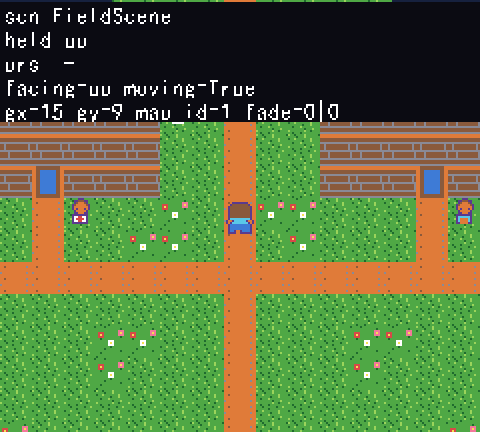
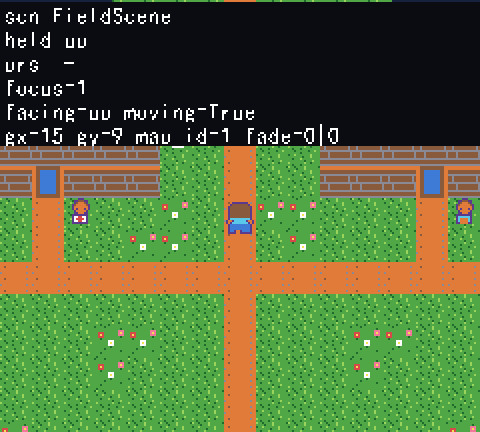
feat(debug): 日志与覆盖层增加窗口焦点状态 focus=
focus.is_focused() 比较 GetForegroundWindow 与自身窗口句柄，
用来确认「按键没反应」是否由窗口失去前台焦点引起。

Changed region(s): [[0.0, 0.1806, 1.0, 0.3611], [0.4375, 0.1806, 0.4688, 0.2106]]

diff --git a/src/core/focus.py b/src/core/focus.py
@@ -22,6 +22,51 @@ WINDOW_TITLE = "精灵对战"
 _SW_RESTORE = 9
 
 
+_hwnd_cache: int = 0
+
+
+def window_handle(title: str = WINDOW_TITLE) -> int:
+    """返回本进程的窗口句柄（找不到返回 0），结果缓存。"""
+    global _hwnd_cache
+    if _hwnd_cache:
+        return _hwnd_cache
+    if sys.platform != "win32":
+        return 0
+    try:
+        import ctypes
+
+        user32 = ctypes.windll.user32
+        hwnd = user32.FindWindowW(None, title)
+        if not hwnd:
+            return 0
+        owner = ctypes.c_ulong(0)
+        user32.GetWindowThreadProcessId(hwnd, ctypes.byref(owner))
+        if owner.value != os.getpid():
+            return 0
+        _hwnd_cache = int(hwnd)
+        return _hwnd_cache
+    except Exception:
+        return 0
+
+
+def is_focused(title: str = WINDOW_TITLE) -> bool:
+    """游戏窗口当前是否是**前台窗口**（即键盘事件会送到游戏）。
+
+    非 Windows 或找不到窗口时一律返回 True，避免误报。
+    """
+    if sys.platform != "win32":
+        return True
+    try:
+        import ctypes
+
+        hwnd = window_handle(title)
+        if not hwnd:
+            return True
+        return int(ctypes.windll.user32.GetForegroundWindow()) == hwnd
+    except Exception:
+        return True
+
+
 def grab_focus(title: str = WINDOW_TITLE) -> bool:
     """尝试把标题为 title 的窗口置于前台。
 

diff --git a/src/core/game.py b/src/core/game.py
@@ -20,6 +20,7 @@ import traceback
 import pyxel
 
 from src.assets_gen import sprite_base
+from src.core import focus
 from src.core.input import ACTIONS, Input, RealInput
 from src.core.scene_manager import SceneManager
 from src.data import map_data
@@ -131,6 +132,7 @@ class Game:
         fade = getattr(scene, "fade", None) if scene is not None else None
         if fade is not None:
             parts.append(f"fade={int(fade.is_active)}|{fade.level}")
+        parts.append(f"focus={int(focus.is_focused())}")
         self._log(" ".join(parts))
 
     # ------------------------------------------------------------ 诊断
@@ -151,6 +153,7 @@ class Game:
         if isinstance(self.input, RealInput):
             last = self.input.last_action or "-"
             rows.append(f"seen={self.input.seen_count} last={last}@{self.input.last_frame}")
+        rows.append(f"focus={int(focus.is_focused())}")
         head = []
         for attr in ("facing", "moving"):
             if cur is not None and hasattr(cur, attr):
